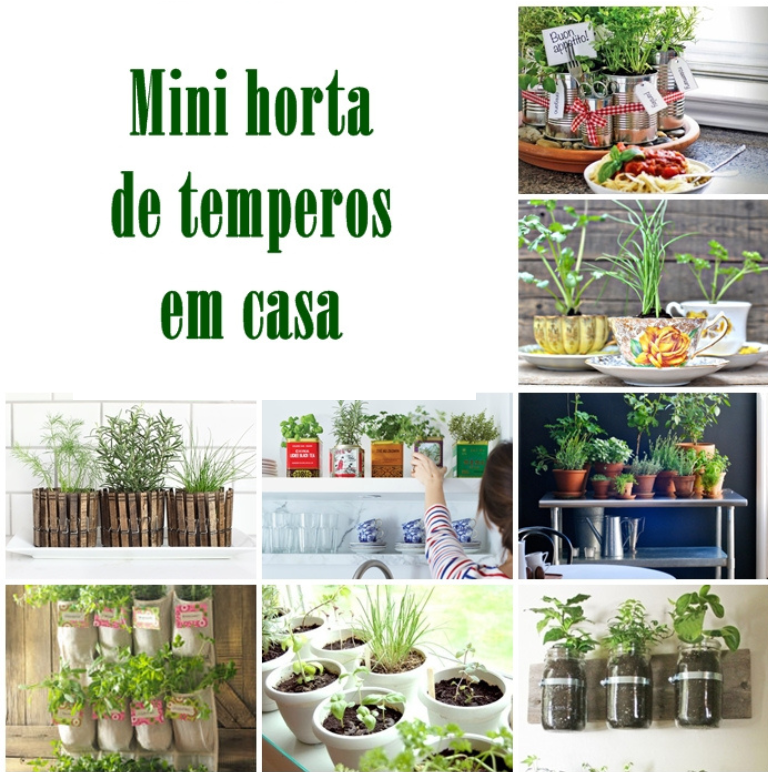
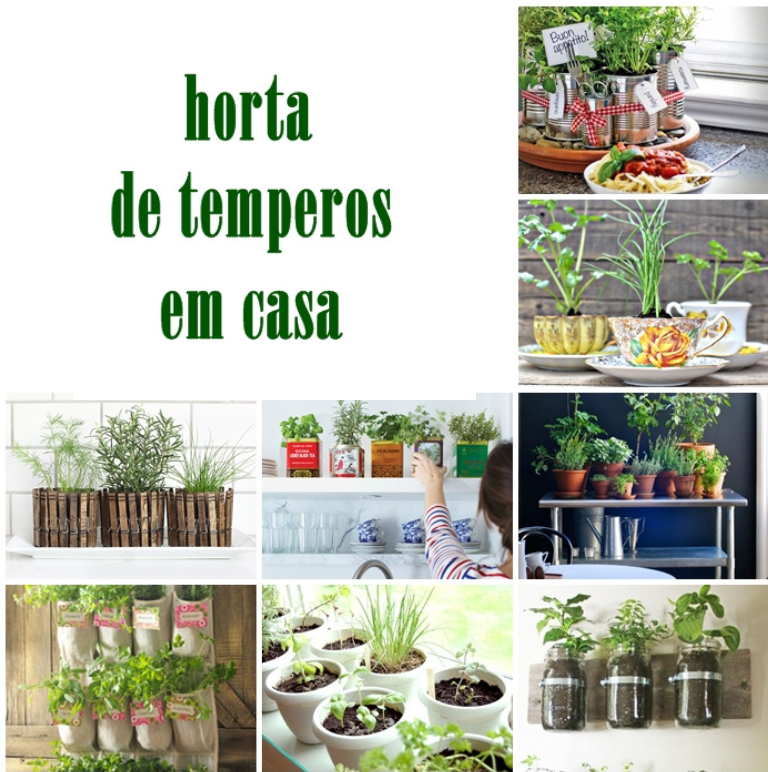
Add files via upload

Changed region(s): [[0.1562, 0.0622, 0.5, 0.1865]]

diff --git a/index.html b/index.html
@@ -117,14 +117,14 @@ fbq('track', 'InitiateCheckout');
                             <div class="elementor-element elementor-element-3d0f1bdc elementor-widget elementor-widget-heading" data-id="3d0f1bdc" data-element_type="widget" data-widget_type="heading.default"> 
                                 <div class="elementor-widget-container"> 
                                     <style>/* ! elementor - v3.11.1 - 15-02-2023 */.elementor-heading-title, .pg-node-id-1, .pg-main-cs-17, .pg-file-cs-17, .pg-node-id-1, .pg-main-cs-17, .pg-file-cs-17, .pg-node-id-1, .pg-main-cs-17, .pg-file-cs-17, .pg-node-id-1, .pg-main-cs-17, .pg-file-cs-17, .pg-node-id-1, .pg-main-cs-30, .pg-file-cs-30 { padding: 0; margin: 0; line-height: 1; } .elementor-widget-heading .elementor-heading-title[class*=elementor-size-]>a, .pg-node-id-2, .pg-main-cs-17, .pg-file-cs-17, .pg-node-id-2, .pg-main-cs-17, .pg-file-cs-17, .pg-node-id-2, .pg-main-cs-17, .pg-file-cs-17, .pg-node-id-2, .pg-main-cs-17, .pg-file-cs-17, .pg-node-id-2, .pg-main-cs-30, .pg-file-cs-30 { color: inherit; font-size: inherit; line-height: inherit; } .elementor-widget-heading .elementor-heading-title.elementor-size-small, .pg-node-id-3, .pg-main-cs-17, .pg-file-cs-17, .pg-node-id-3, .pg-main-cs-17, .pg-file-cs-17, .pg-node-id-3, .pg-main-cs-17, .pg-file-cs-17, .pg-node-id-3, .pg-main-cs-17, .pg-file-cs-17, .pg-node-id-3, .pg-main-cs-30, .pg-file-cs-30 { font-size: 15px; } .elementor-widget-heading .elementor-heading-title.elementor-size-medium, .pg-node-id-4, .pg-main-cs-17, .pg-file-cs-17, .pg-node-id-4, .pg-main-cs-17, .pg-file-cs-17, .pg-node-id-4, .pg-main-cs-17, .pg-file-cs-17, .pg-node-id-4, .pg-main-cs-17, .pg-file-cs-17, .pg-node-id-4, .pg-main-cs-30, .pg-file-cs-30 { font-size: 19px; } .elementor-widget-heading .elementor-heading-title.elementor-size-large, .pg-node-id-5, .pg-main-cs-17, .pg-file-cs-17, .pg-node-id-5, .pg-main-cs-17, .pg-file-cs-17, .pg-node-id-5, .pg-main-cs-17, .pg-file-cs-17, .pg-node-id-5, .pg-main-cs-17, .pg-file-cs-17, .pg-node-id-5, .pg-main-cs-30, .pg-file-cs-30 { font-size: 29px; } .elementor-widget-heading .elementor-heading-title.elementor-size-xl, .pg-node-id-6, .pg-main-cs-17, .pg-file-cs-17, .pg-node-id-6, .pg-main-cs-17, .pg-file-cs-17, .pg-node-id-6, .pg-main-cs-17, .pg-file-cs-17, .pg-node-id-6, .pg-main-cs-17, .pg-file-cs-17, .pg-node-id-6, .pg-main-cs-30, .pg-file-cs-30 { font-size: 39px; } .elementor-widget-heading .elementor-heading-title.elementor-size-xxl, .pg-node-id-7, .pg-main-cs-17, .pg-file-cs-17, .pg-node-id-7, .pg-main-cs-17, .pg-file-cs-17, .pg-node-id-7, .pg-main-cs-17, .pg-file-cs-17, .pg-node-id-7, .pg-main-cs-17, .pg-file-cs-17, .pg-node-id-7, .pg-main-cs-30, .pg-file-cs-30 { font-size: 59px; }</style>                                     
-                                    <h2 class="elementor-heading-title elementor-size-default">APRENDA FAZER MINI <u>HORTA DE TEMPEIROS</u> &amp; TEMPEROS CASEIROS E ELEVE SUAS RECEITAS A UM NOVO NÍVEL!</h2> 
+                                    <h2 class="elementor-heading-title elementor-size-default">APRENDA CULTIVAR&nbsp;<u>HORTA ORGÂNICA</u>&nbsp;&amp;&nbsp; FAZER TEMPEROS CASEIROS EM CASA</h2> 
                                 </div>                                 
                             </div>                             
                             <div class="elementor-element elementor-element-3417e3fe elementor-widget elementor-widget-heading" data-id="3417e3fe" data-element_type="widget" data-widget_type="heading.default"> 
                                 <div class="elementor-widget-container"> 
                                     <h2 class="elementor-heading-title elementor-size-default"></h2> 
                                     <h2 class="elementor-heading-title elementor-size-default"></h2> 
-                                    <h2 class="elementor-heading-title elementor-size-default">Aprenda fazer sua própria horta orgânica de Temperos &amp; Temperos Caseiros em <b>CASA&nbsp;</b>FACILMENTE e eleve sua cozinha a outro nível 🌿🥦🍓</h2>                                                                           
+                                    <h2 class="elementor-heading-title elementor-size-default">Aprenda fazer sua própria horta orgânica &amp; Temperos Caseiros em <b>CASA&nbsp;</b>FACILMENTE e domine a arte de cultivar Horta 🌿🥦🍓</h2> 
                                 </div>                                 
                             </div>                             
                             <div class="elementor-element elementor-element-5bd34a79 elementor-widget elementor-widget-image" data-id="5bd34a79" data-element_type="widget" data-widget_type="image.default"> 
@@ -315,7 +315,7 @@ var names_masc = ['Jose', 'Joao', 'Antonio', 'Francisco', 'Carlos', 'Paulo', 'Pe
                             <div class="elementor-element elementor-element-5c097fb4 elementor-widget elementor-widget-text-editor" data-id="5c097fb4" data-element_type="widget" data-widget_type="text-editor.default"> 
                                 <div class="elementor-widget-container"> 
                                     <strong></strong> 
-                                    <u><strong>Por Que Fazer Uma Horta de Tempeiros &amp; Seus Proprios Temperos Caseiros em Casa?</strong></u> 
+                                    <u><strong>Por Que Fazer Uma Horta Orgânica &amp; Seus Proprios Temperos Caseiros em Casa?</strong></u> 
                                 </div>                                 
                             </div>                             
                             <div class="elementor-element elementor-element-6d07af92 elementor-icon-list--layout-traditional elementor-list-item-link-full_width elementor-widget elementor-widget-icon-list" data-id="6d07af92" data-element_type="widget" data-widget_type="icon-list.default"> 
@@ -403,7 +403,7 @@ var names_masc = ['Jose', 'Joao', 'Antonio', 'Francisco', 'Carlos', 'Paulo', 'Pe
                             </div>                             
                             <div class="elementor-element elementor-element-1b36f4ff elementor-widget elementor-widget-heading" data-id="1b36f4ff" data-element_type="widget" data-widget_type="heading.default"> 
                                 <div class="elementor-widget-container"> 
-                                    <h2 class="elementor-heading-title elementor-size-default"><u>BÔNUS</u> ⭐ : 0S 7 PASSOS CORRETO PARA FAZER HORTA ORGÂNICA EM CASA<br></h2> 
+                                    <h2 class="elementor-heading-title elementor-size-default"><u>BÔNUS</u> ⭐ : 0S 7 PASSOS PARA FAZER HORTA ORGÂNICA EM CASA<br></h2> 
                                 </div>                                 
                             </div>                             
                             <div class="elementor-element elementor-element-37b4c2d5 elementor-widget elementor-widget-image" data-id="37b4c2d5" data-element_type="widget" data-widget_type="image.default"> 
